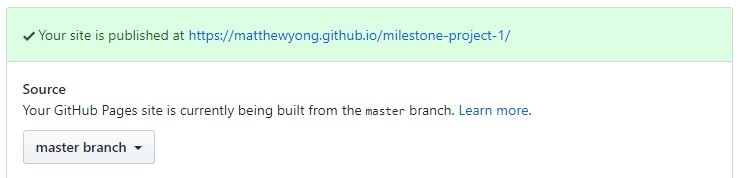
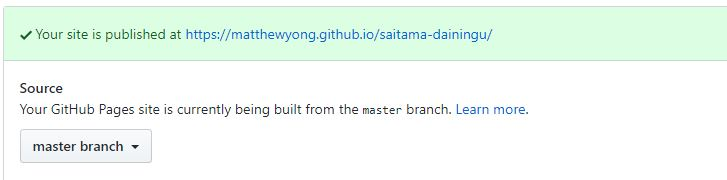
Change repository name and updated image-link in READme.MD

diff --git a/README.md b/README.md
@@ -1,11 +1,11 @@
 # Saitama Dainingu | A Private Dining Experience
-Code Institute Milestone Project 1 - Static Front End Website
+Milestone Project 1 - Code Institute 
 
 This project is a website that contains three pages: a Landing, About and Gallery page. The purpose of this website is to attract and inform new customers by a simple, but strong, visual design. The website contains functional information, such as a contact form and a downloadable menu, as well as an image gallery and a background story to balance the purpose of the website.
 
 ![alt text][logo]
 
-[logo]: https://raw.githubusercontent.com/MatthewYong/milestone-project-1/master/readme/images/image-landingpage-device.png
+[logo]: https://raw.githubusercontent.com/MatthewYong/saitama-dainingu/master/readme/images/image-landingpage-device.png
 
 ## Table of Contents
 - [UX](#ux)
@@ -63,21 +63,21 @@ The structure plane defines the information architecture and interaction design 
 
 ![alt text][hierarchy]
 
-[hierarchy]: https://raw.githubusercontent.com/MatthewYong/milestone-project-1/master/readme/images/image-structure-plane-hierarchy.png
+[hierarchy]: https://raw.githubusercontent.com/MatthewYong/saitama-dainingu/master/readme/images/image-structure-plane-hierarchy.png
 
 
 ### Skeleton Plane
 The skeleton plane defines a basic visual design of the website through, for example, a wireframe. The wireframes for this project are made with Balsamiq can be downloaded from the following link:
 
-- [Wireframe - Desktop version](https://github.com/MatthewYong/milestone-project-1/raw/master/readme/wireframes/Wireframe%20-%20Desktop%20Version.pdf)
-- [Wireframe - Tablet version](https://github.com/MatthewYong/milestone-project-1/raw/master/readme/wireframes/Wireframe%20-%20Tablet%20Version.pdf)
-- [Wireframe - Mobile version](https://github.com/MatthewYong/milestone-project-1/raw/master/readme/wireframes/Wireframe%20-%20Mobile%20Version.pdf)
+- [Wireframe - Desktop version](https://github.com/MatthewYong/saitama-dainingu/raw/master/readme/wireframes/Wireframe%20-%20Desktop%20Version.pdf)
+- [Wireframe - Tablet version](https://github.com/MatthewYong/saitama-dainingu/raw/master/readme/wireframes/Wireframe%20-%20Tablet%20Version.pdf)
+- [Wireframe - Mobile version](https://github.com/MatthewYong/saitama-dainingu/raw/master/readme/wireframes/Wireframe%20-%20Mobile%20Version.pdf)
 
 Below you can find an example of a wireframe of the landing page
 
 ![alt text][wireframe]
 
-[wireframe]: https://raw.githubusercontent.com/MatthewYong/milestone-project-1/master/readme/images/image-example-wireframe.png
+[wireframe]: https://raw.githubusercontent.com/MatthewYong/saitama-dainingu/master/readme/images/image-example-wireframe.png
 
 
 ### Surface Plane
@@ -257,11 +257,11 @@ To publish the website, the following steps needs to be taken:
 2. Go to **'Settings'**
 3. Scroll down until you see **'GitHub Pages'**
 4. Under GitHub pages, click on the dropdown under **'Source'** and select the **'Master Branch'** option
-5. A green box should appear with the following message **'Your site is published at.../'**
+5. A green box should appear with the following message **'Your site is published at https://matthewyong.github.io/saitama-dainingu/'**
 
 ![alt text][deploy]
 
-[deploy]:https://raw.githubusercontent.com/MatthewYong/milestone-project-1/master/readme/images/image-github-deployment.JPG
+[deploy]:https://raw.githubusercontent.com/MatthewYong/saitama-dainingu/master/readme/images/image-github-deployment.JPG
 
 For more information on how to deploy a website on GitHub, please visit [here](https://help.github.com/en/github/working-with-github-pages/configuring-a-publishing-source-for-your-github-pages-site).
 
